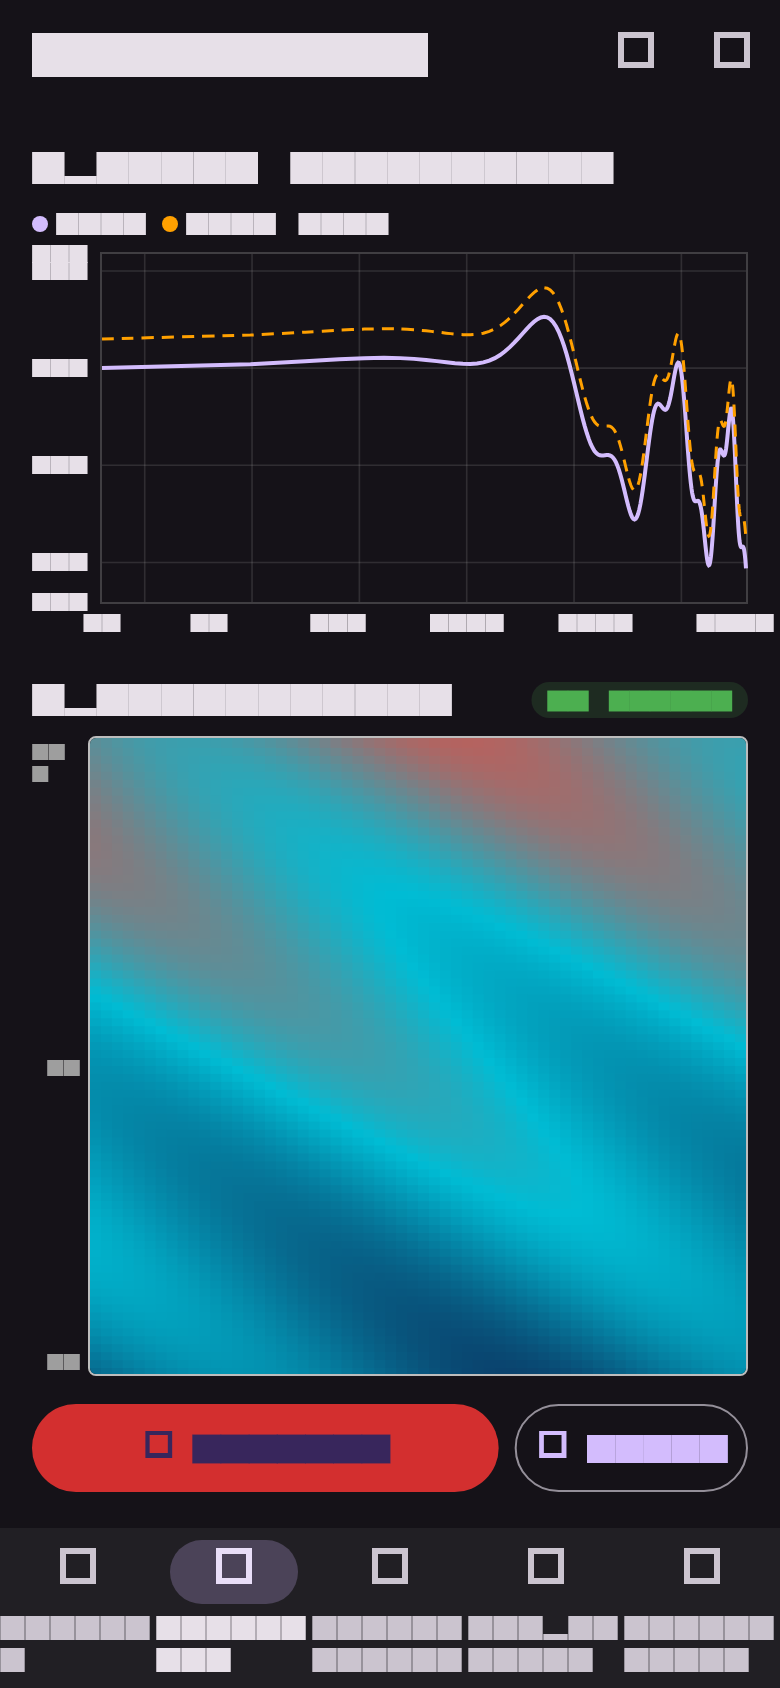
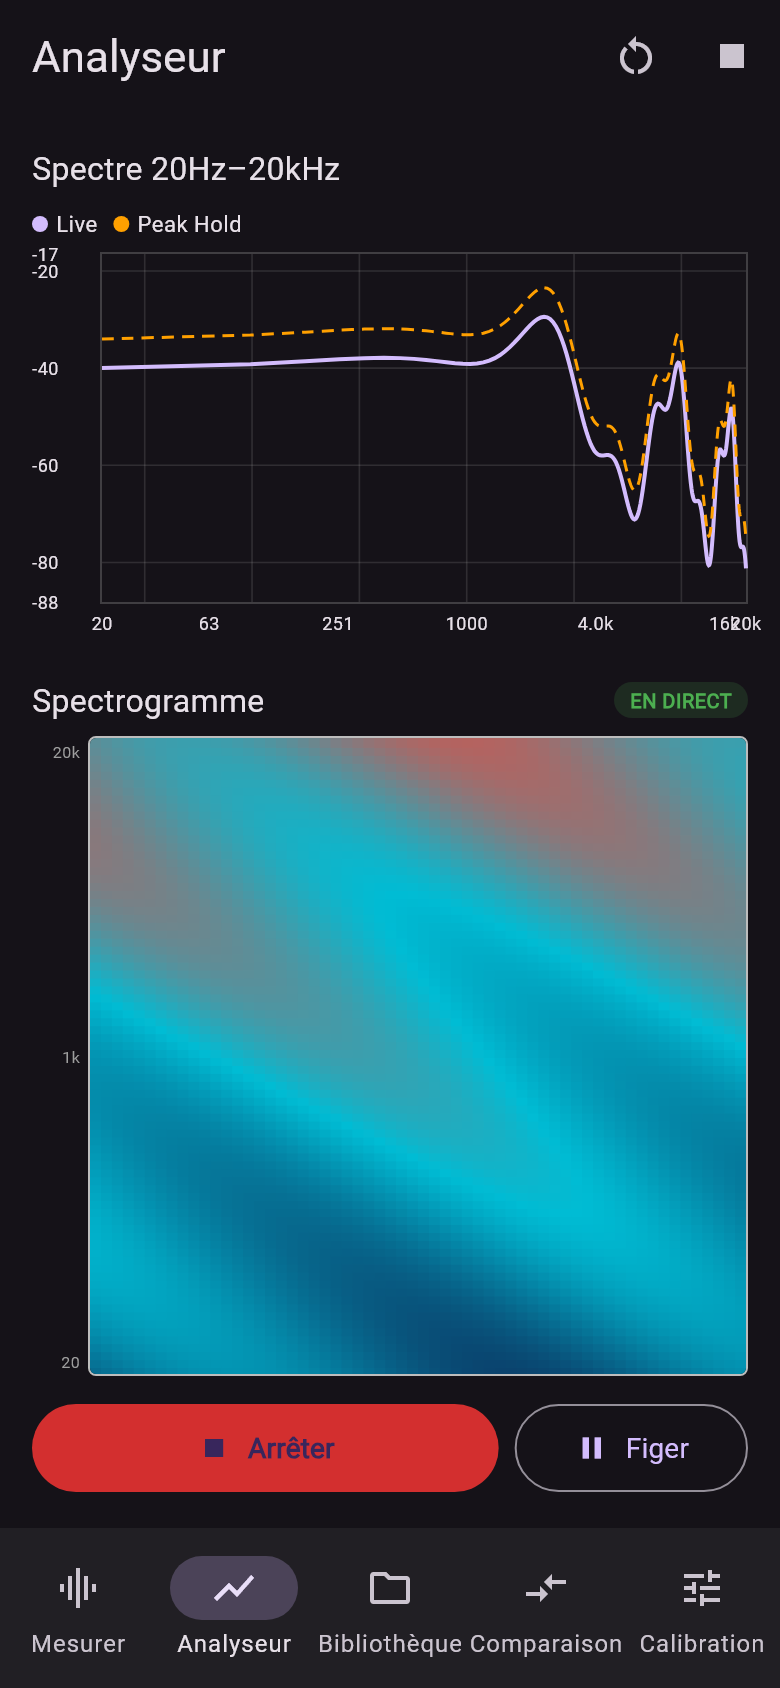
fix(screenshots): load real typography fonts & render crisp UI captures

diff --git a/lib/features/measurement/measurement_screen.dart b/lib/features/measurement/measurement_screen.dart
@@ -110,9 +110,22 @@ class _SignalParamsEditor extends StatelessWidget {
               label: '${config.levelDbfs.round()}dBFS',
               onChanged: generator.setLevelDbfs,
             ),
-            const Text(
-              '⚠ Niveau contrôlé pour protéger les enceintes et garder des comparaisons à niveau constant.',
-              style: TextStyle(fontSize: 12, color: Colors.orange),
+            const Row(
+              crossAxisAlignment: CrossAxisAlignment.start,
+              children: [
+                Icon(
+                  Icons.warning_amber_rounded,
+                  size: 16,
+                  color: Colors.orange,
+                ),
+                SizedBox(width: 6),
+                Expanded(
+                  child: Text(
+                    'Niveau contrôlé pour protéger les enceintes et garder des comparaisons à niveau constant.',
+                    style: TextStyle(fontSize: 12, color: Colors.orange),
+                  ),
+                ),
+              ],
             ),
           ],
         ),

diff --git a/test/generate_screenshots_test.dart b/test/generate_screenshots_test.dart
@@ -3,6 +3,7 @@ import 'dart:typed_data';
 
 import 'package:flutter/material.dart';
 import 'package:flutter_test/flutter_test.dart';
+import 'package:golden_toolkit/golden_toolkit.dart';
 import 'package:mocktail/mocktail.dart';
 import 'package:provider/provider.dart';
 import 'package:record/record.dart';
@@ -30,8 +31,9 @@ import 'widgets/test_helpers.dart';
 class MockAudioRecorder extends Mock implements AudioRecorder {}
 
 void main() {
-  setUpAll(() {
+  setUpAll(() async {
     sqfliteFfiInit();
+    await loadAppFonts();
   });
 
   Widget wrapScreen(Widget child, {int tabIndex = 0}) {
